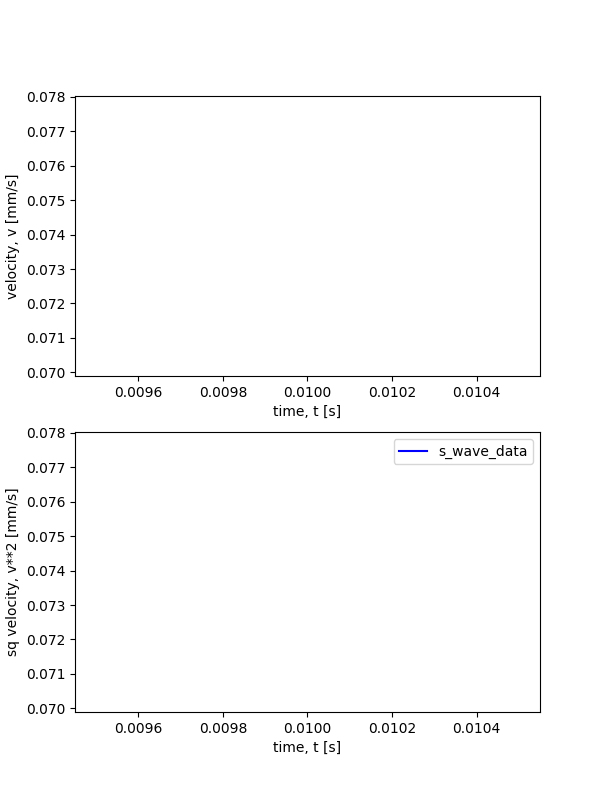
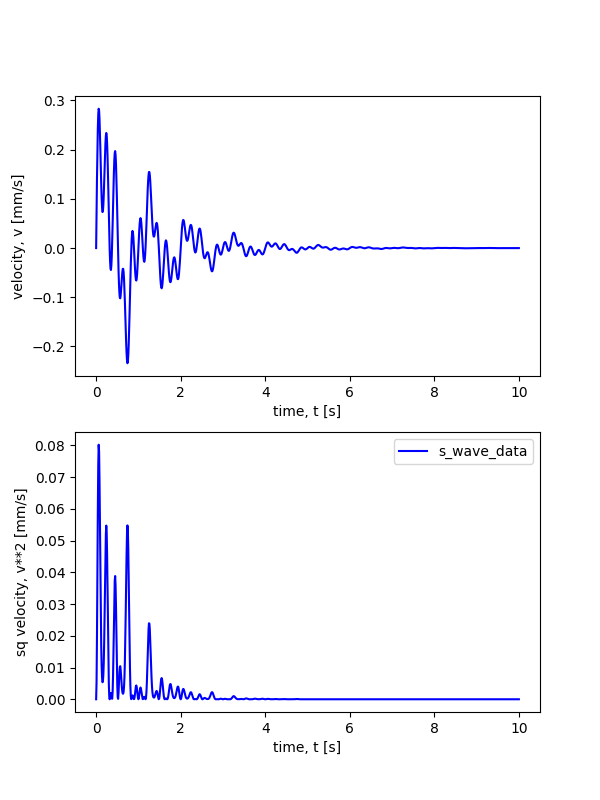
Updated grpahs and started trap integration

diff --git a/src/goph420_lab01/intergration.py b/src/goph420_lab01/intergration.py
@@ -1,0 +1,40 @@
+import numpy as np
+
+def integrate_newton(x, f, alg="trap"):
+    if alg.strip().lower() == "trap":
+        return integrate_newton_trap(x, f)
+    # elif alg.strip().lower() == "simp":
+        return integrate_newton_simp(x, f)
+    
+def integrate_newton_trap(x, f):
+    """Intergrate using trapazoid rule.
+    |
+    Parameters
+    ----------
+    x : array_like
+        The independent coordinate data.
+    f : array_like
+        The dependent variable
+        Should have sams shape and length as x
+    |
+    Return
+    ------
+    float
+
+    Raises
+    ------
+    Value Error
+        If x and f data do not have the same length.
+    |
+    Notes
+    -----
+    we assume constant step size in x
+    |
+    """
+    x = np.array(x).flatten()
+    f = np.array(f).flatten()
+    if len(x) != len(f):
+        raise ValueError(f"len(x) is (len(x)), len(f) is {len(f)}, should be equal")
+    dx = x[1] - x[0]
+    return 0.5 * dx * (f[0] + 2 * np.sum(f[1:-1]) + f[-1])
+    

diff --git a/test/test_newton_cotes.py b/test/test_newton_cotes.py
@@ -1,0 +1,25 @@
+import numpy as np
+from goph420_lab01.intergration import (
+    integrate_newton_trap,
+)
+
+def test_newton_trap():
+    x = np.linespace(-2.0, 5.0)
+    f0 = 5.0 * np.ones_like(x)
+    f1 = -2.5 + 0.6 * x
+
+    I0_exp = f0[0] * (x[-1] - x[0])
+    I0_act_2 = integrate_newton_trap(
+        [x[0]], x[-1],
+        [f0[0]], f0[-1],
+    )
+    I0_act_all = integrate_newton_trap(x, f0)
+    print("Testing Trapazoid rule: ")
+    print(f"f(x) = {f0[0]} from x={x[0]} to x = {x[-1]}")
+    print(f"Expected: {I0_exp}")
+    print(f"Actual (2 data pts): {I0_act_2}")
+    print(f"Actual ({len(x)} data pts): {I0_act_all}")
+
+
+if __name__ == "__main__":
+    test_newton_trap()

diff --git a/examples/driver_seismic.py b/examples/driver_seismic.py
@@ -4,8 +4,8 @@ import matplotlib.pyplot as plt
 def main():
     #load seismic data
     data = np.loadtxt("C:/Users/Declan/repos/goph-w2025-lab01-stDF/data/s_wave_data.txt")
-    t_data = data[1,0]
-    v_data = data[1,1]
+    t_data = data[:,0]
+    v_data = data[:,1]
     v2_data = v_data**2
 
     plt.figure(figsize=(6,8))
@@ -17,7 +17,7 @@ def main():
     plt.legend
 
     plt.subplot(2, 1, 2)
-    plt.plot(t_data, v_data, "-b", label="s_wave_data")
+    plt.plot(t_data, v2_data, "-b", label="s_wave_data")
     plt.xlabel("time, t [s]")
     plt.ylabel("sq velocity, v**2 [mm/s]")
     plt.legend()
